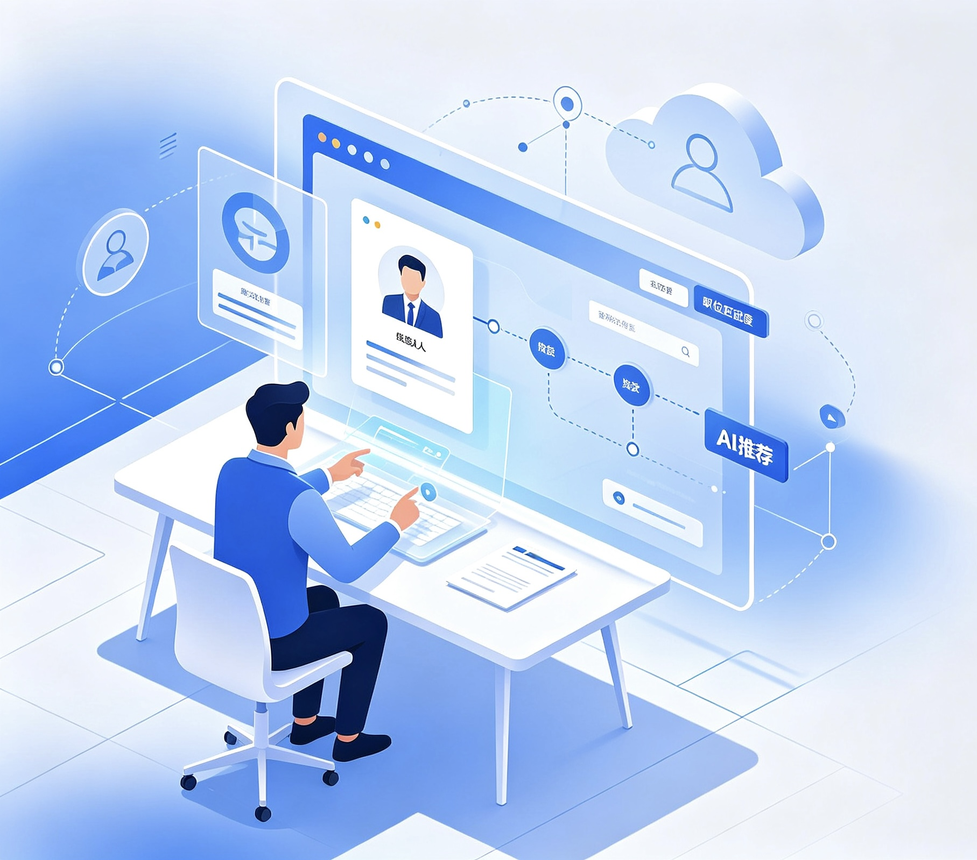
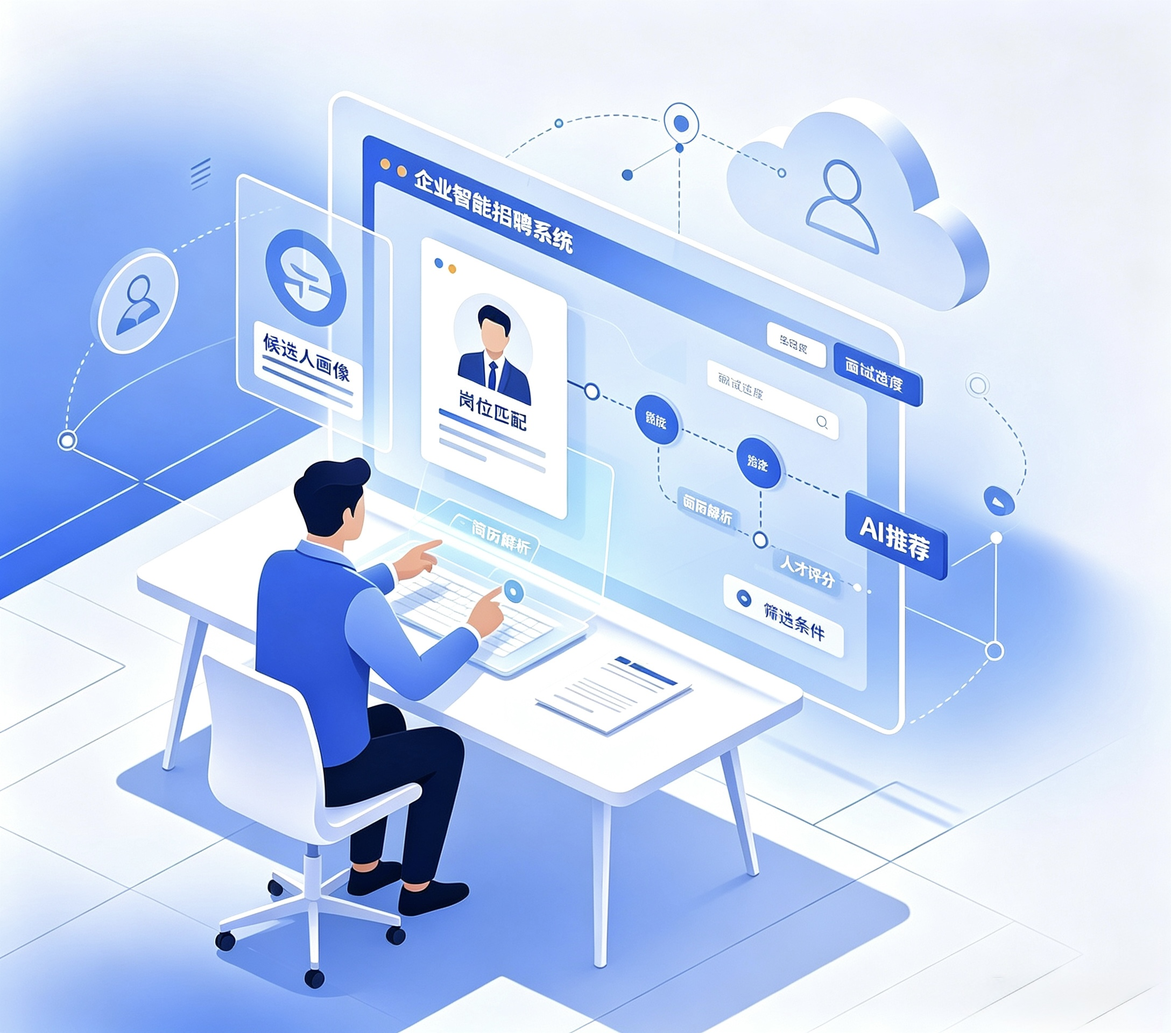
登录页改分屏：左侧新版插画图 + 右侧表单（无品牌文字）

diff --git a/frontend/src/pages/Login/index.tsx b/frontend/src/pages/Login/index.tsx
@@ -56,67 +56,75 @@ const Login: React.FC = () => {
   };
 
   return (
-    <div className="login-page">
-      <div className="login-inner">
-        <div className="login-stagger-item" style={{ marginBottom: 24 }}>
-          <div className="login-logo-box">
-            <img src="/swan.svg" alt="天鹅到家" />
-          </div>
-        </div>
+    <div className="login-split">
+      {/* 左侧：品牌图 */}
+      <div className="login-left">
+        <img src="/login-bg.jpg" alt="智能招聘系统" className="login-left-img" />
+      </div>
 
-        <div className="login-stagger-item">
-          <Title level={2} style={{ marginBottom: 4, fontWeight: 700, color: '#0F172A' }}>
-            欢迎回来
-          </Title>
-          <Text style={{ color: '#64748B', fontSize: 14 }}>
-            请输入账号信息登录系统
-          </Text>
-        </div>
-
-        <form onSubmit={handleLogin} className="login-form">
-          <div className="login-stagger-item">
-            <label className="login-label">邮箱地址</label>
-            <Input
-              prefix={<MailOutlined style={{ color: '#94A3B8' }} />}
-              placeholder="email@example.com"
-              size="large"
-              value={email}
-              onChange={e => setEmail(e.target.value)}
-              disabled={loading}
-              className="login-input"
-            />
+      {/* 右侧：登录表单 */}
+      <div className="login-right">
+        <div className="login-right-inner">
+          <div className="login-stagger-item" style={{ marginBottom: 24 }}>
+            <div className="login-logo-box">
+              <img src="/swan.svg" alt="天鹅到家" />
+            </div>
           </div>
 
           <div className="login-stagger-item">
-            <label className="login-label">密码</label>
-            <Input.Password
-              prefix={<LockOutlined style={{ color: '#94A3B8' }} />}
-              placeholder="••••••••••••"
-              size="large"
-              value={password}
-              onChange={e => setPassword(e.target.value)}
-              disabled={loading}
-              className="login-input"
-            />
+            <Title level={2} style={{ marginBottom: 4, fontWeight: 700, color: '#0F172A' }}>
+              欢迎回来
+            </Title>
+            <Text style={{ color: '#64748B', fontSize: 14 }}>
+              请输入账号信息登录系统
+            </Text>
           </div>
+
+          <form onSubmit={handleLogin} className="login-form">
+            <div className="login-stagger-item">
+              <label className="login-label">邮箱地址</label>
+              <Input
+                prefix={<MailOutlined style={{ color: '#94A3B8' }} />}
+                placeholder="email@example.com"
+                size="large"
+                value={email}
+                onChange={e => setEmail(e.target.value)}
+                disabled={loading}
+                className="login-input"
+              />
+            </div>
+
+            <div className="login-stagger-item">
+              <label className="login-label">密码</label>
+              <Input.Password
+                prefix={<LockOutlined style={{ color: '#94A3B8' }} />}
+                placeholder="••••••••••••"
+                size="large"
+                value={password}
+                onChange={e => setPassword(e.target.value)}
+                disabled={loading}
+                className="login-input"
+              />
+            </div>
+
+            <div className="login-stagger-item">
+              <Button
+                type="primary"
+                htmlType="submit"
+                loading={loading}
+                className="login-btn"
+                size="large"
+              >
+                {loading ? '登录中...' : '登录'}
+              </Button>
+            </div>
+          </form>
 
           <div className="login-stagger-item">
-            <Button
-              type="primary"
-              htmlType="submit"
-              loading={loading}
-              className="login-btn"
-              size="large"
-            >
-              {loading ? '登录中...' : '登录'}
-            </Button>
+            <Text style={{ color: '#94A3B8', fontSize: 13 }}>
+              © 2026 天鹅到家 · AI 智能招聘系统
+            </Text>
           </div>
-        </form>
-
-        <div className="login-stagger-item">
-          <Text style={{ color: '#94A3B8', fontSize: 13 }}>
-            © 2026 天鹅到家 · AI 智能招聘系统
-          </Text>
         </div>
       </div>
     </div>

diff --git a/frontend/src/pages/Login/login.css b/frontend/src/pages/Login/login.css
@@ -1,14 +1,39 @@
-/* 登录页 - 居中布局 */
-.login-page {
+/* 登录页 - 分屏布局（图左表右） */
+.login-split {
+  display: flex;
+  min-height: 100vh;
+  width: 100%;
+  background: #FAFBFC;
+}
+
+/* 左侧：品牌图 */
+.login-left {
+  flex: 1.1;
+  position: relative;
+  background: #0F172A;
+  overflow: hidden;
+  display: none;
+}
+
+.login-left-img {
+  width: 100%;
+  height: 100%;
+  object-fit: cover;
+  object-position: center;
+  display: block;
+}
+
+/* 右侧：表单 */
+.login-right {
+  flex: 1;
   display: flex;
   align-items: center;
   justify-content: center;
-  min-height: 100vh;
-  background: #FAFBFC;
   padding: 32px;
+  background: #FAFBFC;
 }
 
-.login-inner {
+.login-right-inner {
   width: 100%;
   max-width: 400px;
 }
@@ -79,5 +104,12 @@
   to {
     opacity: 1;
     transform: translateY(0);
+  }
+}
+
+/* 平板及以上显示左侧图 */
+@media (min-width: 768px) {
+  .login-left {
+    display: block;
   }
 }
